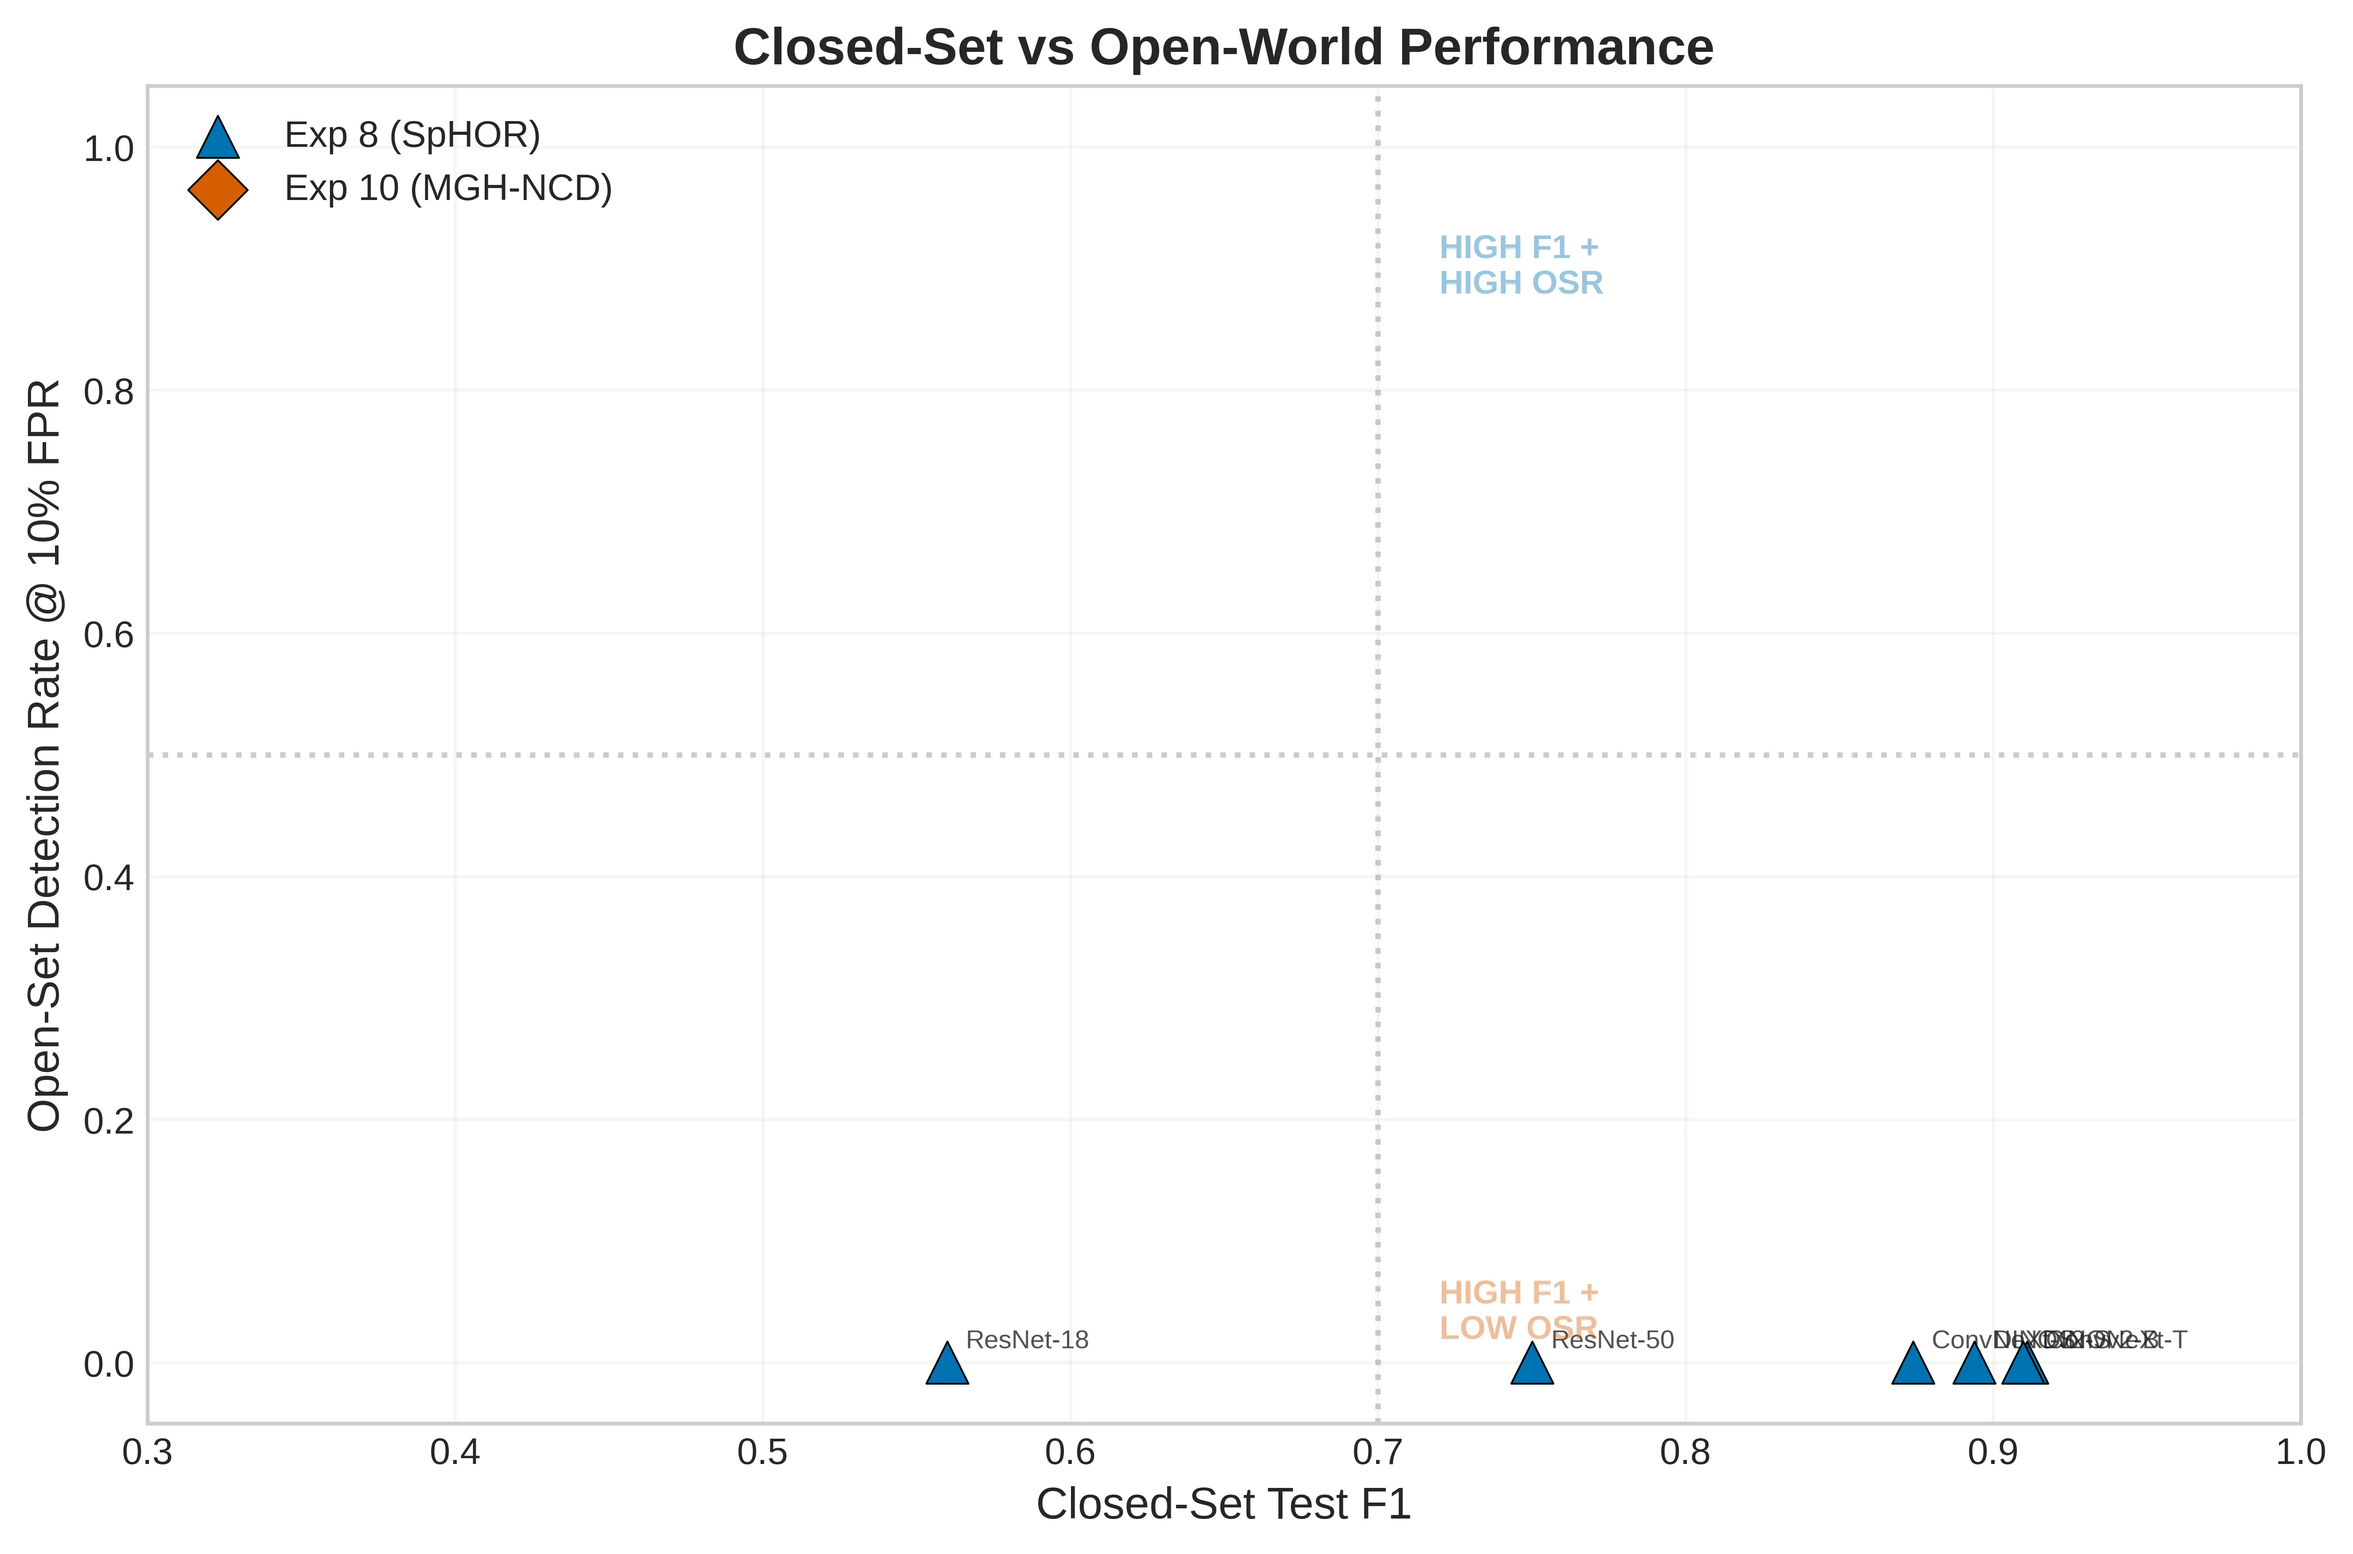
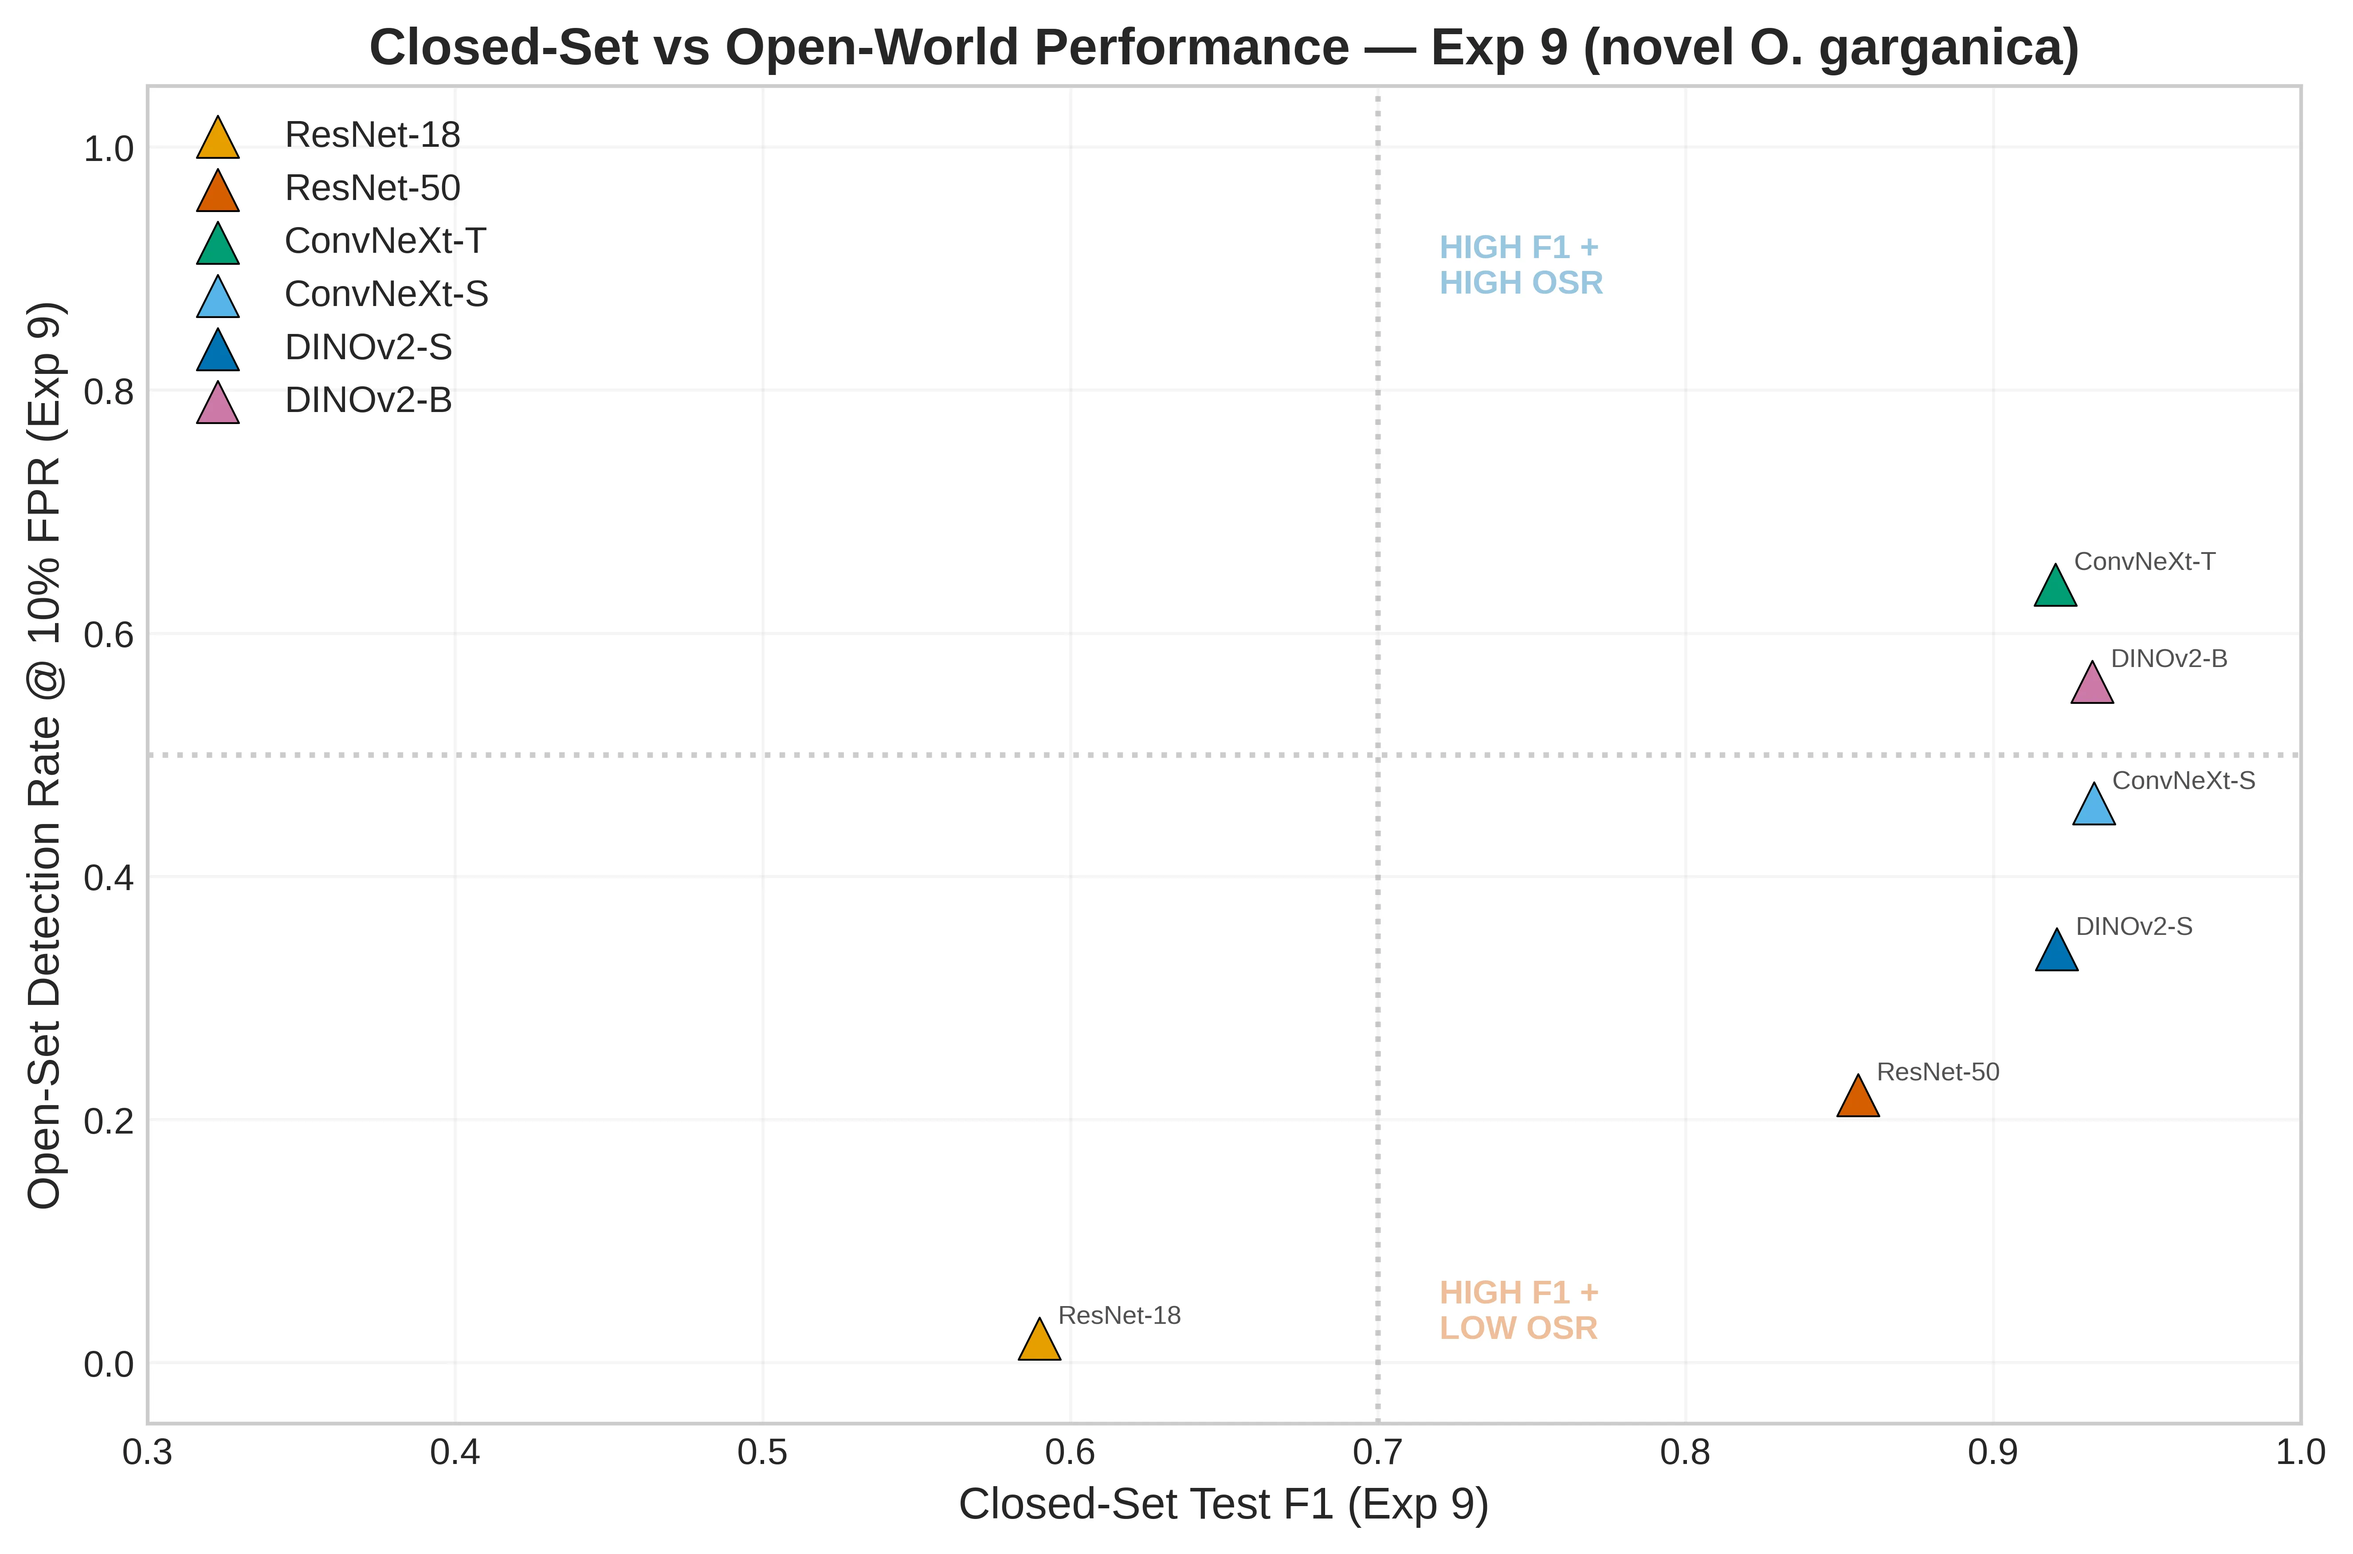
feat: figure rigenerate senza exp10, eliminate figure OSR obsolete
- generate_thesis_figures: EXPS_ALL/EXPS_OSR senza exp10, confusion
  matrices exp7/8 (2 pannelli), scatter closed-vs-open solo exp9,
  per-species best model exp6/7/8, heatmap OSR solo exp9, rimosse
  fig_exp10_per_species/fig_spotlight_exp10_collapse/fig_clustering_comparison
- webp aggiornate con dati nuovi (benchmark, confusion, per-species,
  spotlight, summary, scatter)
- rimosse figure OSR legacy non piu' referenziate (exp10_per_species,
  spotlight_exp10_collapse, tsne_novel, osr_*_comparison, clustering)

diff --git a/backend/scripts/generate_thesis_figures.py b/backend/scripts/generate_thesis_figures.py
@@ -30,8 +30,8 @@ PATIENCE = 15
 NOVEL_CLASS = "O. garganica"
 
 MODELS = ["resnet18", "resnet50", "convnext_tiny", "convnext_small", "dinov2_small", "dinov2_base"]
-EXPS_ALL = ["exp6", "exp7", "exp8", "exp9", "exp10"]
-EXPS_OSR = ["exp8", "exp9", "exp10"]
+EXPS_ALL = ["exp6", "exp7", "exp8", "exp9"]
+EXPS_OSR = ["exp9"]
 
 MODEL_LABELS = {
     "resnet18": "ResNet-18",
@@ -46,14 +46,12 @@ EXP_LABELS = {
     "exp7": "Exp 7 (SupCon)",
     "exp8": "Exp 8 (SpHOR)",
     "exp9": "Exp 9 (Novel)",
-    "exp10": "Exp 10 (MGH-NCD)",
 }
 EXP_PREFIXES = {
     "exp6": "exp6_clean_split",
     "exp7": "exp7_supcon",
     "exp8": "exp8_sphor",
     "exp9": "exp9_ncd",
-    "exp10": "exp10_mgh_ncd",
 }
 
 # Colorblind-friendly palette (ibm / tableau-inspired)
@@ -263,10 +261,9 @@ def fig_confusion_matrices():
     """Confusion matrices for best model in each experiment (exp7/8/10 only)."""
     panels = [
         ("exp7", "dinov2_small", "Exp 7 (SupCon)\nDINOv2-Small"),
-        ("exp8", "dinov2_small", "Exp 8 (SpHOR)\nDINOv2-Small"),
-        ("exp10", "dinov2_base", "Exp 10 (MGH-NCD)\nDINOv2-Base"),
+        ("exp8", "convnext_tiny", "Exp 8 (SpHOR)\nConvNeXt-Tiny"),
     ]
-    fig, axes = plt.subplots(1, 3, figsize=(16, 4.5))
+    fig, axes = plt.subplots(1, 2, figsize=(11, 4.5))
 
     for j, (exp, model, title) in enumerate(panels):
         ax = axes[j]
@@ -369,35 +366,32 @@ def fig_tsne_comparison():
 
 
 def fig_closed_vs_open_scatter():
-    """Scatter: test F1 vs detection_rate@10%FPR. Shows exp8+10 (only ones with OSR data)."""
+    """Scatter: test F1 vs detection_rate@10%FPR. Shows exp9+10 (only ones with OSR data)."""
     fig, ax = plt.subplots(figsize=(9, 6))
-    shapes = {"exp8": "^", "exp10": "D"}
-    colors_exp = {"exp8": "#0072B2", "exp10": "#D55E00"}
 
-    for exp in ["exp8", "exp10"]:
-        for model in MODELS:
-            f1 = get_test_f1(load_results(exp, model))
-            dr = get_detection_rate(exp, model)
-            ax.scatter(
-                f1,
-                dr,
-                s=130,
-                c=colors_exp[exp],
-                marker=shapes[exp],
-                label=EXP_LABELS[exp] if model == MODELS[0] else "",
-                zorder=3,
-                edgecolors="black",
-                linewidths=0.5,
-            )
-            ax.annotate(short_model(model), (f1, dr), textcoords="offset points", xytext=(5, 4), fontsize=7, alpha=0.8)
+    for model in MODELS:
+        f1 = get_test_f1(load_results("exp9", model))
+        dr = get_detection_rate("exp9", model)
+        ax.scatter(
+            f1,
+            dr,
+            s=130,
+            c=MODEL_COLORS.get(model, CB[0]),
+            marker="^",
+            label=short_model(model),
+            zorder=3,
+            edgecolors="black",
+            linewidths=0.5,
+        )
+        ax.annotate(short_model(model), (f1, dr), textcoords="offset points", xytext=(5, 4), fontsize=7, alpha=0.8)
 
     ax.axhline(y=0.5, color="gray", linestyle=":", alpha=0.4)
     ax.axvline(x=0.7, color="gray", linestyle=":", alpha=0.4)
     ax.text(0.72, 0.88, "HIGH F1 +\nHIGH OSR", fontsize=9, fontweight="bold", color="#0072B2", alpha=0.4)
     ax.text(0.72, 0.02, "HIGH F1 +\nLOW OSR", fontsize=9, fontweight="bold", color="#D55E00", alpha=0.4)
-    ax.set_xlabel("Closed-Set Test F1")
-    ax.set_ylabel("Open-Set Detection Rate @ 10% FPR")
-    ax.set_title("Closed-Set vs Open-World Performance", fontweight="bold")
+    ax.set_xlabel("Closed-Set Test F1 (Exp 9)")
+    ax.set_ylabel("Open-Set Detection Rate @ 10% FPR (Exp 9)")
+    ax.set_title("Closed-Set vs Open-World Performance — Exp 9 (novel O. garganica)", fontweight="bold")
     ax.legend(loc="upper left", framealpha=0.9)
     ax.set_xlim(0.3, 1.0)
     ax.set_ylim(-0.05, 1.05)
@@ -412,7 +406,7 @@ def fig_closed_vs_open_scatter():
 
 def fig_per_species_f1():
     """Grouped bar chart: F1 per species, best model per experiment."""
-    best = {"exp6": "dinov2_base", "exp7": "dinov2_small", "exp8": "dinov2_small", "exp10": "dinov2_base"}
+    best = {"exp6": "resnet50", "exp7": "dinov2_small", "exp8": "convnext_tiny"}
     order = ["O. exaltata", "O. garganica", "O. incubacea", "O. majellensis", "O. sphegodes", "O. sphegodes_Palena"]
     short = [short_species(s) for s in order]
     fig, ax = plt.subplots(figsize=(10, 5))
@@ -847,7 +841,7 @@ def fig_clustering_comparison():
 def fig_summary_dual_heatmap():
     """Closed-set F1 + open-set detection rate side by side."""
     data_f1 = np.full((len(MODELS), 5), np.nan)
-    data_det = np.full((len(MODELS), 3), np.nan)
+    data_det = np.full((len(MODELS), len(EXPS_OSR)), np.nan)
 
     for j, exp in enumerate(EXPS_ALL):
         for i, model in enumerate(MODELS):
@@ -890,8 +884,8 @@ def fig_summary_dual_heatmap():
 
 
 def fig_osr_detection_heatmap():
-    """Ensemble detection rate for all models, Exp 8/9/10."""
-    data = np.full((len(MODELS), 3), np.nan)
+    """Ensemble detection rate for all models, Exp 9/10."""
+    data = np.full((len(MODELS), len(EXPS_OSR)), np.nan)
     for j, exp in enumerate(EXPS_OSR):
         for i, model in enumerate(MODELS):
             data[i, j] = get_detection_rate(exp, model)
@@ -902,14 +896,14 @@ def fig_osr_detection_heatmap():
     im = ax.imshow(data, cmap=cmap, vmin=0.0, vmax=1.0, aspect="auto")
 
     for i in range(len(MODELS)):
-        for j in range(3):
+        for j in range(len(EXPS_OSR)):
             v = data[i, j]
             if not np.isnan(v):
                 c = "white" if v > 0.5 else "black"
                 ax.text(j, i, f"{v:.3f}", ha="center", va="center", fontsize=12, color=c, fontweight="bold")
 
-    ax.set_xticks(range(3))
-    ax.set_xticklabels(["SpHOR\n(Exp 8)", "Novel\n(Exp 9)", "MGH-NCD\n(Exp 10)"], fontsize=9)
+    ax.set_xticks(range(len(EXPS_OSR)))
+    ax.set_xticklabels(["Novel\n(Exp 9)"], fontsize=9)
     ax.set_yticks(range(len(MODELS)))
     ax.set_yticklabels([short_model(m) for m in MODELS], fontsize=9)
     ax.set_title("Detection Rate @ 10% FPR", fontweight="bold", pad=12)
@@ -1081,18 +1075,21 @@ def fig_spotlight_exp10_collapse():
 
 def fig_spotlight_species_evolution():
     """How per-species F1 changes across experiments for DINOv2-Small.
-    Shows the journey from CE → SupCon → SpHOR → MGH-NCD for each species."""
+    Shows the journey from CE → SupCon → SpHOR → MGH-NCD for each species.
+    Exp 9 is excluded: O. garganica is the novel class there (not in the
+    closed-set evaluation), so its per-species F1 would be a misleading 0."""
     model = "dinov2_small"
     order = ["O. exaltata", "O. garganica", "O. incubacea", "O. majellensis", "O. sphegodes", "O. sphegodes_Palena"]
     short = [short_species(s) for s in order]
     n_sp = len(order)
+    exps_shown = ["exp6", "exp7", "exp8"]
 
     fig, ax = plt.subplots(figsize=(10, 5))
-    exp_colors = {"exp6": "#757575", "exp7": "#E69F00", "exp8": "#0072B2", "exp9": "#009E73", "exp10": "#D55E00"}
-    markers = {"exp6": "o", "exp7": "s", "exp8": "^", "exp9": "P", "exp10": "D"}
+    exp_colors = {"exp6": "#757575", "exp7": "#E69F00", "exp8": "#0072B2", "exp9": "#009E73"}
+    markers = {"exp6": "o", "exp7": "s", "exp8": "^", "exp10": "D"}
     x = np.arange(n_sp)
 
-    for exp in EXPS_ALL:
+    for exp in exps_shown:
         res = load_results(exp, model)
         f1pc = res["test_metrics"].get("f1_per_class", {}) if res and "test_metrics" in res else {}
         vals = [f1pc.get(s, 0) for s in order]
@@ -1155,18 +1152,13 @@ def main():
         ("10. Per-species F1 all models", fig_exp8_per_species),
         ("--- EXP 9 (Novel: O. garganica) ---", None),
         ("10b. OSR AUROC (novel garganica)", fig_exp9_osr_auroc),
-        ("--- EXP 10 (MGH-NCD) ---", None),
-        ("11. Clustering comparison", fig_clustering_comparison),
-        ("12. OSR detection — SpHOR vs MGH-NCD", fig_osr_detection_comparison),
-        ("13. Per-species F1 all models", fig_exp10_per_species),
         ("--- CROSS-EXP ---", None),
         ("--- SPOTLIGHT FIGURES ---", None),
-        ("14. Closed vs Open scatter", fig_closed_vs_open_scatter),
-        ("15. Summary dual heatmap", fig_summary_dual_heatmap),
-        ("16. OSR detection heatmap", fig_osr_detection_heatmap),
-        ("17. Spotlight: ConvNeXt-Tiny OSR champion", fig_spotlight_convnext_osr),
-        ("18. Spotlight: Exp 10 collapse to Palena", fig_spotlight_exp10_collapse),
-        ("19. Spotlight: per-species evolution across exps", fig_spotlight_species_evolution),
+        ("11. Closed vs Open scatter", fig_closed_vs_open_scatter),
+        ("12. Summary dual heatmap", fig_summary_dual_heatmap),
+        ("13. OSR detection heatmap", fig_osr_detection_heatmap),
+        ("14. Spotlight: DINOv2-Base OSR champion", fig_spotlight_convnext_osr),
+        ("15. Spotlight: per-species evolution across exps", fig_spotlight_species_evolution),
     ]
 
     for name, func in todo:
